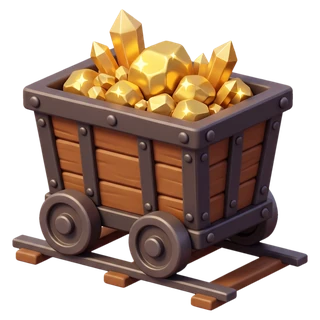
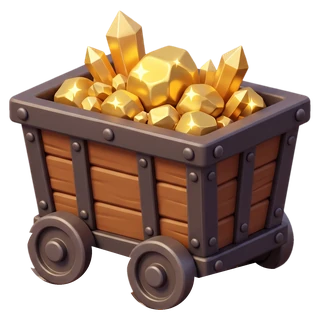
礦車：去掉圖上自帶的鐵軌，改沿背景的軌道從礦坑口開出來、停在背景礦車後面
Claude-Session: https://claude.ai/code/session_01W9KMAgp1CRKeHuYohfaeHn

diff --git a/js/app.js b/js/app.js
@@ -4,7 +4,7 @@
 
   var CGP = window.CGP;
   /** 每次發布更新時修改，方便在「設定 → 備份」確認手機上是不是新版 */
-  var APP_VERSION = '2026.11.08-89';
+  var APP_VERSION = '2026.11.08-90';
   var store;
   try {
     store = new CGP.Store();
@@ -801,7 +801,7 @@
           items: [[800, 4952], [866, 4918], [600, 5112], [520, 5012], [760, 5160]], itemCls: 'story-ore', itemLabel: '金礦石',
           title: '⛏ 幫技師撿回金礦石！', sub: '點地圖上發光的礦石',
           hint: '我的金礦石滾得到處都是…走到第 5 格幫我撿回來！', intro: '我的金礦石滾得到處都是！幫我把 5 顆發光的礦石撿回來！', done: '太好了！礦石都找回來了，謝謝你！' },
-        rail: { type: 'press', effect: 'cart', drag: true, top: true,   /* 2026-11-08 家長調整：真的拖曳拉桿往下拉；面板放上方，看得到地圖上的拉桿 */ guide: [430, 4522], cam: [470, 4420], lever: [360, 4556], path: [[300, 4488], [578, 4300]],
+        rail: { type: 'press', effect: 'cart', drag: true, top: true,   /* 2026-11-08 家長調整：真的拖曳拉桿往下拉；面板放上方，看得到地圖上的拉桿 */ guide: [430, 4522], cam: [270, 4450], lever: [360, 4556], path: [[150, 4434], [214, 4464]],   /* 鏡頭對準礦坑；礦車從礦坑口沿背景軌道開出來，停在背景礦車後面 */
           title: '🔧 拉下轉轍器！', sub: '抓住紅色把手，往下拉到底', btn: '⬇ 拉下拉桿',
           hint: '礦場的轉轍器卡住了…走到第 30 格幫我拉下拉桿！', intro: '轉轍器卡住了，礦車過不去！幫我拉下拉桿！', done: '軌道接通了！礦車可以開往水晶礦谷了！' }
       }
@@ -911,8 +911,10 @@
       cart.style.left = a.x + 'px'; cart.style.top = a.y + 'px';
       world.appendChild(cart);
       await sleep(reduceMotion ? 50 : 400);
-      cart.style.left = z.x + 'px'; cart.style.top = z.y + 'px'; cart.classList.add('go');
-      await sleep(reduceMotion ? 100 : 1700);
+      cart.style.left = z.x + 'px'; cart.style.top = z.y + 'px'; cart.classList.add('go');   // 從礦坑裡淡入開出來
+      await sleep(reduceMotion ? 100 : 2400);
+      cart.classList.add('bye');
+      await sleep(reduceMotion ? 50 : 500);
       cart.remove();
     } else {
       // 吊橋：一排木板從左到右拉緊出現

diff --git a/css/style.css b/css/style.css
@@ -1943,7 +1943,10 @@ body.story-on .map-page .map-shop, body.story-on .map-page .dice-bar, body.story
 .story-lever i { transform: rotate(calc(-35deg + var(--pull, 0) * 70deg)); }
 .story-lever.pulled i { transform: rotate(35deg); }
 @media (prefers-reduced-motion: reduce) { .pull-arrow { animation: none; } }
-/* 2026-11-08 礦車正式圖（家長 Gemini 圖，去除外框相連白底＋鐵軌間被圍住的大塊白底）：地圖上開走的礦車、機會卡「礦車來了！」面板 */
-.story-cart { font-size: 0; width: 104px; }
-.story-cart img { display: block; width: 100%; height: auto; transform: scaleX(-1); }   /* 翻成車頭朝右，往右上開 */
+/* 2026-11-08 礦車正式圖（家長 Gemini 圖；去掉白底與圖上自帶的鐵軌，讓礦車直接開在背景的軌道上）：地圖上開走的礦車、機會卡「礦車來了！」面板 */
+.story-cart { font-size: 0; width: 110px; transform: translate(-50%, -88%); }   /* 輪子底部對齊路徑點（背景軌道） */
+.story-cart img { display: block; width: 100%; height: auto; }
+.story-cart { opacity: 0; transition: left 1.6s ease-in-out, top 1.6s ease-in-out, opacity .6s ease-out; }
+.story-cart.go { opacity: 1; }
+.story-cart.bye { opacity: 0; transition: opacity .45s; }
 .cart-art { width: 110px; height: 110px; object-fit: contain; margin: -6px 0 -4px; }

diff --git a/sw.js b/sw.js
@@ -1,5 +1,5 @@
 /* 親子集點 Service Worker：離線可用。資料存在 localStorage，不受快取影響。 */
-var CACHE = 'cgp-shell-v99';
+var CACHE = 'cgp-shell-v100';
 var SHELL = [
   './', 'index.html', 'css/style.css', 'js/store.js', 'js/rules-csv.js', 'js/report.js', 'js/board-gold.js', 'js/board-gold-02.js', 'js/board-gold-03.js', 'js/board-gold-04.js', 'js/game.js', 'js/art.js', 'js/app.js',
   'manifest.webmanifest', 'images/gold-island.webp', 'images/gold/region01.webp', 'images/gold/region02.webp', 'images/gold/region03.webp', 'images/gold/region04.webp', 'images/gold/tower_off.webp', 'images/gold/tower_on.webp', 'images/gold/technician.webp', 'images/gold/stone.webp', 'images/gold/ore.webp', 'images/gold/minecart.webp', 'images/mascot.webp', 'images/float-castle.webp', 'images/chest.webp',

diff --git a/docs/HANDOFF.md b/docs/HANDOFF.md
@@ -1,6 +1,6 @@
 # 親子集點冒險 App：交接文件
 
-> 最後更新：2026-11-08｜App 版本 `2026.11.08-89`｜Service Worker 快取 `cgp-shell-v99`｜`main` 最新：礦車換正式圖
+> 最後更新：2026-11-08｜App 版本 `2026.11.08-90`｜Service Worker 快取 `cgp-shell-v100`｜`main` 最新：礦車沿背景軌道開出礦坑
 > 給接手的開發者（或下一個 Claude session）。**新對話請先讀第 0、1 節**，再依需要查後面各節與 `PROJECT_SPEC.md`。
 
 ---
@@ -14,7 +14,7 @@
 - 小遊戲試玩網址：https://dollyswim.github.io/Child-good-point/#minigame-test（抓住星星）、https://dollyswim.github.io/Child-good-point/#leaf-test（木島落葉找松果）
 
 ### 每次修改的固定流程
-1. 改圖片或 JS／CSS：新檔加入 `sw.js` 的 `SHELL`，**升 `sw.js` 的 `CACHE`**（目前 `cgp-shell-v99`）與 **`js/app.js` 的 `APP_VERSION`**（目前 `2026.11.08-89`，格式 `日期-流水號`），並更新本文件第 1 行與 `docs/ACCEPTANCE_CHECKLIST.md` 的版本號。
+1. 改圖片或 JS／CSS：新檔加入 `sw.js` 的 `SHELL`，**升 `sw.js` 的 `CACHE`**（目前 `cgp-shell-v100`）與 **`js/app.js` 的 `APP_VERSION`**（目前 `2026.11.08-90`，格式 `日期-流水號`），並更新本文件第 1 行與 `docs/ACCEPTANCE_CHECKLIST.md` 的版本號。
 2. 測試：`npm test`（單元，約 1 秒，目前 132 項）、`npm run test:e2e`（Playwright 手機尺寸，**約 3～4 分鐘**，建議放背景跑）。兩者都通過才算完成。
 3. 提交訊息用繁體中文；推送 `git push origin main`。
 4. 用繁體中文回報：修改檔案、新增功能、測試結果、已知問題、下一步。
@@ -47,7 +47,7 @@
 - 「載入封存檔」回 App（目前封存檔只能保存）。
 - 角色動畫延伸到冒險大廳、通關畫面；星星呼喚、成就徽章的正式圖。
 - 「星星捕手」「星海傳說」徽章圖案描述可改成銀色星星（小遊戲已改抓銀色星星）。
-- 金島礦車正式圖已上線（`images/gold/minecart.webp`，家長 Gemini 圖；去除外框相連白底＋鐵軌間被圍住的大塊白底，閃光保留）：第 30 格劇情開走的礦車（左右翻成車頭朝右）、機會卡「礦車來了！」面板。
+- 金島礦車正式圖已上線（`images/gold/minecart.webp`，家長 Gemini 圖；去除外框相連白底＋鐵軌間被圍住的大塊白底，閃光保留）；圖上自帶的鐵軌已去掉（`tools` 外的一次性處理：保留車身底線以上＋輪子圓形範圍）。第 30 格劇情：鏡頭對準礦坑，礦車從礦坑口淡入、沿背景軌道開到背景礦車後面停住再淡出；機會卡「礦車來了！」面板也用這張圖。
 - 第 30 格轉轍器改成真的拖曳拉桿：`pullLever()`，紅色把手往下拉到 85% 以上放開（或拉到底）才觸發，沒到底會彈回；地圖上的拉桿跟著扳下（`--pull`）；鍵盤 ↓／Enter 也可以。木島吊橋仍是按鈕。
 - 金島發光金礦石正式圖已上線（`images/gold/ore.webp`，家長 Gemini 圖，只去除與外框相連的白底）。
 - 修正：撿礦石任務進行中點商店，關掉後地圖重畫、礦石消失而卡住 → 劇情任務中地圖按鈕暫停（`body.story-on`），重畫後把沒撿的東西放回地圖。

diff --git a/docs/ACCEPTANCE_CHECKLIST.md b/docs/ACCEPTANCE_CHECKLIST.md
@@ -1,11 +1,11 @@
 # 手機實機驗收清單
 
-> 版本 `2026.11.08-89`｜2026-11-07 更新｜在 Android 手機上照順序勾選。
+> 版本 `2026.11.08-90`｜2026-11-07 更新｜在 Android 手機上照順序勾選。
 > 自動測試（模擬手機 360／390／430px）已全部通過；這份清單是確認**真的手機、安裝到主畫面的 App** 也正常。
 
 ## 0. 開始前（一定要做）
 - [ ] ⚙ 設定 → 備份 → **匯出 JSON**，先把現在的資料存一份
-- [ ] 設定 → 備份 → App 版本顯示 `2026.11.08-89`（不是的話：關掉 App 再開一次；還不是就到瀏覽器重新整理）
+- [ ] 設定 → 備份 → App 版本顯示 `2026.11.08-90`（不是的話：關掉 App 再開一次；還不是就到瀏覽器重新整理）
 - [ ] 小孩頁面右上角（設定城堡下方）→「新增孩子」→ 新增一位「測試」孩子，下面的冒險測試都用他，不影響真的孩子
 
 ## 1. 基本功能
